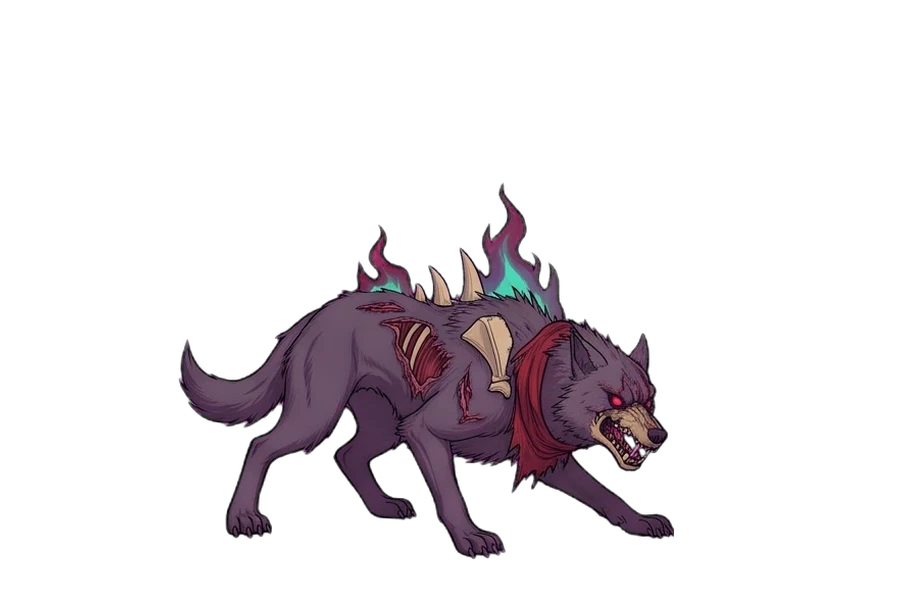
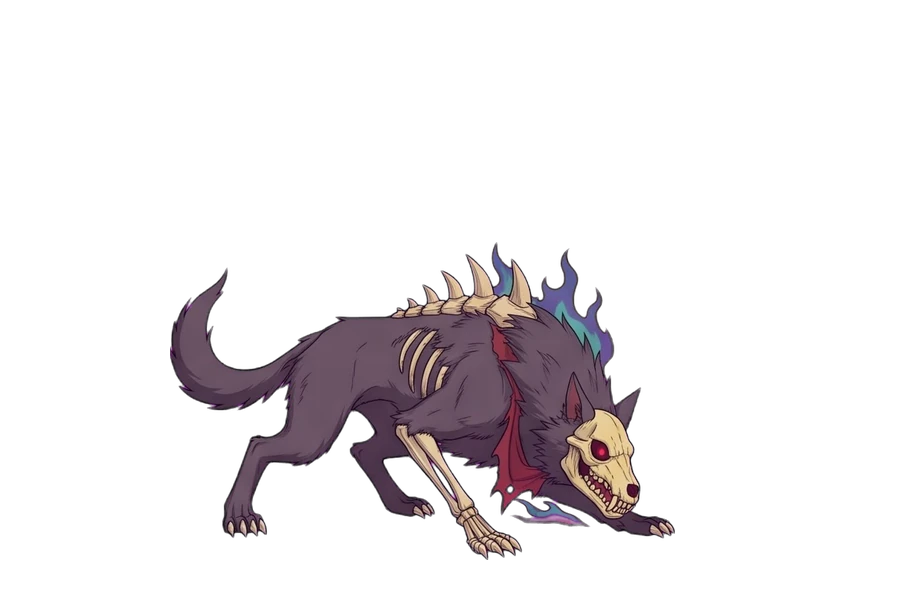
v0.8.25: 大狼攻擊姿勢換成誇張版，新增爪痕/獠牙/音波/魔焰特效與資料驅動招式特效
Claude-Session: https://claude.ai/code/session_019t36GnxcDJSNUGVk3mR62J

Changed region(s): [[0.1867, 0.33, 0.7467, 0.93], [0.5289, 0.3, 0.56, 0.33]]

diff --git a/index.html b/index.html
@@ -2073,7 +2073,7 @@
       "use strict";
 
       /* v0.7.8 圖片快取：assets/ 圖片網址一律加 ?v=版本，更新美術後不會讀到手機瀏覽器的舊快取（每次改圖就遞增 ASSET_VER） */
-      const ASSET_VER = "0.8.24";
+      const ASSET_VER = "0.8.25";
       (function () {
         const d = Object.getOwnPropertyDescriptor(HTMLImageElement.prototype, "src");
         if (!d || !d.set) return;
@@ -2827,8 +2827,8 @@
         /* --- 小狼（快、低、打了就跑） --- */
         M.s_bite = { name: "幽影撕咬", frames: FR("07_windup", "09_slash", "10_slash_rec"), windup: 0.26, active: 0.12, recover: 0.22, range: 150, lunge: 520, damage: 120, parryPostureDmg: 16 };
         M.s_bite2 = { name: "連環撕咬", isCombo: true, comboTotalHits: 2, comboInterval: 0.16, comboDamagePerHit: 85, frames: FR("07_windup", "09_slash", "10_slash_rec"), windup: 0.30, active: 0.45, recover: 0.30, range: 155, lunge: 420, damage: 100, parryPostureDmg: 14 };
-        M.s_claw3 = { name: "血爪三連", isCombo: true, comboTotalHits: 3, comboInterval: 0.18, comboDamagePerHit: 80, frames: FR("07_windup", "09_slash", "10_slash_rec"), windup: 0.38, active: 0.62, recover: 0.34, range: 160, lunge: 420, damage: 110, parryPostureDmg: 14 };
-        M.s_pounce = { name: "疾撲 (閃開，或起跳踩頭)", isLeap: true, leapH: 130, leapMax: 460, frames: { windup: "08_windup_thrust", recover: "12_thrust_rec" }, windup: 0.42, active: 0.36, recover: 0.42, range: 150, lunge: 0, damage: 150, parryPostureDmg: 16 };
+        M.s_claw3 = { fxHit: { sheet: "wolf", row: 0, ox: 110, oy: -90, w: 300, dur: 0.25 }, name: "血爪三連", isCombo: true, comboTotalHits: 3, comboInterval: 0.18, comboDamagePerHit: 80, frames: FR("07_windup", "09_slash", "10_slash_rec"), windup: 0.38, active: 0.62, recover: 0.34, range: 160, lunge: 420, damage: 110, parryPostureDmg: 14 };
+        M.s_pounce = { name: "疾撲 (閃開，或起跳踩頭)", isLeap: true, leapH: 130, leapMax: 460, frames: { windup: "08_windup_thrust", active: "11_thrust", recover: "12_thrust_rec" }, windup: 0.42, active: 0.36, recover: 0.42, range: 150, lunge: 0, damage: 150, parryPostureDmg: 16 };
         M.s_rush = { name: "【危】狂暴衝撲 (前閃看破)", isPerilous: true, perilType: "thrust", frames: { windup: "08_windup_thrust", active: "11_thrust", recover: "12_thrust_rec" }, windup: 0.50, active: 0.20, recover: 0.55, range: 300, lunge: 980, damage: 300 };
         M.s_tail = { name: "【危】甩尾旋斬 (起跳踩頭)", isPerilous: true, perilType: "sweep", frames: { windup: "07_windup", active: "13_sweep", recover: "10_slash_rec" }, windup: 0.52, active: 0.22, recover: 0.50, range: 230, lunge: 240, damage: 260 };
         M.s_shadow = { name: "幽影閃 (繞背)", isTeleport: true, teleportBehind: true, teleportDelay: 0.30, teleportText: "【幽影閃】", teleportColor: "#c084fc", frames: FR("07_windup", "09_slash", "10_slash_rec"), windup: 0.50, active: 0.12, recover: 0.34, range: 150, lunge: 300, damage: 130, parryPostureDmg: 14 };
@@ -2838,24 +2838,24 @@
         /* --- 蛻變（不是攻擊：長嘯 1.4 秒脹大，active 起點換成大狼，震退） --- */
         M.transform = { name: "九幽狼王・覺醒", isSwitch: true, isTransform: true, armor: true, switchText: { B: "〔九幽狼王・覺醒〕" }, frames: FR("14_cast", "14_cast", "14_cast"), windup: 1.4, active: 0.4, recover: 0.7, range: 0, lunge: 0, damage: 0 };
         /* --- 大狼（慢、重、大範圍；range 含半個身長） --- */
-        M.b_swipe = { name: "巨爪橫掃", frames: FR("07_windup", "09_slash", "10_slash_rec"), windup: 0.62, active: 0.18, recover: 0.55, range: 330, lunge: 220, damage: 210, parryPostureDmg: 28 };
-        M.b_stomp = { name: "地面連錘", isCombo: true, comboTotalHits: 3, comboInterval: 0.30, comboDamagePerHit: 110, frames: FR("07_windup", "09_slash", "10_slash_rec"), windup: 0.60, active: 1.0, recover: 0.55, range: 320, lunge: 300, damage: 160, parryPostureDmg: 20 };
-        M.b_leap = { name: "【危】巨狼躍壓 (閃開，或起跳踩頭)", isLeap: true, isPerilous: true, perilType: "leap", leapH: 230, leapMax: 640, frames: { windup: "08_windup_thrust", recover: "12_thrust_rec" }, windup: 0.75, active: 0.60, recover: 0.80, range: 300, lunge: 0, damage: 300, parryPostureDmg: 22 };
-        M.b_howl = { name: "咆哮震波 (霸體・震退)", armor: true, pushback: 900, frames: FR("14_cast", "14_cast", "14_cast"), windup: 0.65, active: 0.15, recover: 0.50, range: 420, lunge: 0, damage: 90, parryPostureDmg: 20 };
+        M.b_swipe = { fxAct: { sheet: "wolf", row: 0, ox: 200, oy: -210, w: 640, dur: 0.34 }, name: "巨爪橫掃", frames: FR("07_windup", "09_slash", "10_slash_rec"), windup: 0.62, active: 0.18, recover: 0.55, range: 330, lunge: 220, damage: 210, parryPostureDmg: 28 };
+        M.b_stomp = { name: "地面連錘", isCombo: true, comboTotalHits: 3, comboInterval: 0.30, comboDamagePerHit: 110, fxHit: { sheet: "land", row: 0, ox: 260, oy: 22, w: 560, dur: 0.5, anchor: "b", alpha: 0.85 }, frames: FR("07_windup", "20_slam", "10_slash_rec"), windup: 0.60, active: 1.0, recover: 0.55, range: 320, lunge: 300, damage: 160, parryPostureDmg: 20 };
+        M.b_leap = { name: "【危】巨狼躍壓 (閃開，或起跳踩頭)", isLeap: true, fxLand: true, isPerilous: true, perilType: "leap", leapH: 230, leapMax: 640, frames: { windup: "08_windup_thrust", active: "11_thrust", recover: "12_thrust_rec" }, windup: 0.75, active: 0.60, recover: 0.80, range: 300, lunge: 0, damage: 300, parryPostureDmg: 22 };
+        M.b_howl = { fxAct: { sheet: "wolf", row: 3, ox: 260, oy: -250, w: 900, dur: 0.7 }, name: "咆哮震波 (霸體・震退)", armor: true, pushback: 900, frames: FR("14_cast", "14_cast", "14_cast"), windup: 0.65, active: 0.15, recover: 0.50, range: 420, lunge: 0, damage: 90, parryPostureDmg: 20 };
         M.b_bone = { name: "白骨刺陣", isZone: true, zoneType: "bone", zoneWidth: 320, zoneDuration: 2.4, zoneDamagePerSec: 150, zoneTargetPlayer: true, frames: FR("14_cast", "14_cast", "14_cast"), windup: 0.55, active: 0.20, recover: 0.50, range: 300, lunge: 0, damage: 120 };
-        M.b_bite = { name: "【危】噬魂吞咬 (極限側閃)", isPerilous: true, perilType: "grab", frames: { windup: "08_windup_thrust", active: "11_thrust", recover: "12_thrust_rec" }, windup: 0.70, active: 0.16, recover: 0.75, range: 260, lunge: 0, damage: 350 };
-        M.b_tail = { name: "【危】魔尾裂風掃 (起跳踩頭)", isPerilous: true, perilType: "sweep", frames: { windup: "07_windup", active: "13_sweep", recover: "10_slash_rec" }, windup: 0.60, active: 0.24, recover: 0.62, range: 360, lunge: 260, damage: 300 };
+        M.b_bite = { name: "【危】噬魂吞咬 (極限側閃)", isPerilous: true, perilType: "grab", fxAct: { sheet: "wolf", row: 1, ox: 300, oy: -190, w: 560, dur: 0.36 }, frames: { windup: "08_windup_thrust", active: "21_bite", recover: "12_thrust_rec" }, windup: 0.70, active: 0.16, recover: 0.75, range: 260, lunge: 0, damage: 350 };
+        M.b_tail = { fxAct: { sheet: "land", row: 2, ox: 0, oy: -60, w: 1100, dur: 0.5, alpha: 0.7 }, name: "【危】魔尾裂風掃 (起跳踩頭)", isPerilous: true, perilType: "sweep", frames: { windup: "07_windup", active: "13_sweep", recover: "10_slash_rec" }, windup: 0.60, active: 0.24, recover: 0.62, range: 360, lunge: 260, damage: 300 };
         M.b_rush = { name: "巨狼衝撞 (跳躍越過)", isCharge: true, armor: true, chargeSpeed: 720, frames: { windup: "08_windup_thrust", active: "11_thrust", recover: "12_thrust_rec" }, windup: 0.70, active: 0.70, recover: 0.90, range: 260, lunge: 720, damage: 260, parryPostureDmg: 24 };
-        M.b_rage = { name: "血海狼嚎・亂爪 (霸體)", isRage: true, armor: true, isCombo: true, comboTotalHits: 3, comboInterval: 0.26, comboDamagePerHit: 130, frames: FR("14_cast", "09_slash", "10_slash_rec"), windup: 0.70, active: 0.95, recover: 0.70, range: 340, lunge: 320, damage: 220, parryPostureDmg: 26 };
+        M.b_rage = { fxHit: { sheet: "wolf", row: 0, ox: 220, oy: -200, w: 700, dur: 0.3 }, name: "血海狼嚎・亂爪 (霸體)", isRage: true, armor: true, isCombo: true, comboTotalHits: 3, comboInterval: 0.26, comboDamagePerHit: 130, frames: FR("14_cast", "09_slash", "10_slash_rec"), windup: 0.70, active: 0.95, recover: 0.70, range: 340, lunge: 320, damage: 220, parryPostureDmg: 26 };
         Object.values(M).forEach(m => { if (m.range) m.range = Math.round(m.range * CHAR_K); });
         S5.moves = M;
-        S5.stanceByPhase = { 1: "A", 2: "B" }; S5.transformMove = "transform"; S5.transformGrow = 3.0; /* 蛻變時小狼脹大的倍數（接近大狼／小狼體型比） */
+        S5.fxSheets = ["wolf", "land"]; S5.stanceByPhase = { 1: "A", 2: "B" }; S5.transformMove = "transform"; S5.transformGrow = 3.0; /* 蛻變時小狼脹大的倍數（接近大狼／小狼體型比） */
         S5.stances = {
           A: { sprite: "boss5", stride: 170, speed: 430, walkSeq: ["03_walk1", "04_walk2", "05_walk3", "06_walk4"], spriteScale: 0.64, hurtHalf: 40, bodyW: 150, bodyH: 70, rageMove: "s_rage",
             pool: [["s_bite", 14], ["s_bite2", 12], ["s_claw3", 11], ["s_bite+backstep", 10, "mobility"], ["s_pounce+backstep", 9, "mobility"], ["dash_in+s_bite", 10, "chase"], ["s_rush", 8], ["s_tail", 8], ["s_shadow+s_bite", 8, "chase"]],
             far: ["dash_in+s_bite", "s_pounce"], farP2: [] },
           B: { sprite: "boss5b", stride: 330, speed: 250, /* 大狼：站立與走路只用外觀一致（無骨腿）的格子，避免 AI 生圖各格骨腿有無不同而閃爍 */
-            remap: { "01_idle1": "02_idle2" }, walkSeq: ["03_walk1", "04_walk2", "06_walk4", "04_walk2"], spriteScale: 1.05, hurtHalf: 230, bodyW: 520, bodyH: 300, rageMove: "b_rage",
+            extras: ["20_slam", "21_bite"], remap: { "01_idle1": "02_idle2" }, walkSeq: ["03_walk1", "04_walk2", "06_walk4", "04_walk2"], spriteScale: 1.05, hurtHalf: 230, bodyW: 520, bodyH: 300, rageMove: "b_rage",
             pool: [["b_swipe", 16], ["b_stomp", 12], ["b_howl", 9, "push"], ["b_bone", 10], ["b_bite", 9], ["b_tail", 9], ["b_leap", 12, "mobility"], ["b_rush", 8, "chase"]],
             far: ["b_rush", "b_leap"], farP2: [] }
         };
@@ -4454,6 +4454,12 @@
         Boss._leapPity = pk.indexOf("leap_slam") >= 0 ? 0 : (Boss._leapPity || 0) + 1;
         return pk;
       }
+      /* v0.8.25 招式特效（資料驅動）：move.fxAct＝出招起點、move.fxHit＝連擊每一下、move.fxLand＝躍擊落地；
+         欄位 {sheet,row,ox(沿面向偏移),oy,w,h,dur,anchor,alpha} */
+      function spawnMoveFx(f) {
+        if (!f || !fxReady(f.sheet)) return;
+        spawnFx(f.sheet, f.row, Boss.x + Boss.facing * (f.ox || 0), Boss.y + (f.oy || 0), { w: f.w, h: f.h || f.w, dur: f.dur || 0.35, facing: Boss.facing, anchor: f.anchor || "c", alpha: f.alpha == null ? 1 : f.alpha });
+      }
       function triggerMacro(k) { const parts = k.split("+"); triggerBossMove(parts[0], parts.slice(1)); }
       function triggerBossMove(moveKey, queue = []) {
         if (Boss.state === "staggered" || Boss.state === "frozen") return;
@@ -4714,6 +4720,7 @@
             Boss.stateTimer = move.active * phaseMod * volSpeedMod;
             Boss.stateDur = move.active * phaseMod * volSpeedMod;
             Boss.vx = Boss.facing * move.lunge * (Config.bossPhase === 2 ? 1.2 : 1.0);
+            spawnMoveFx(move.fxAct);
             if (move.isCharge && Boss.stageId === 1 && fxReady("boss2")) spawnFx("boss2", 2, Boss.x, Boss.y - 120, { w: 440, dur: Math.max(0.4, move.active), loop: true, fps: 11, facing: Boss.facing, follow: () => ({ x: Boss.x - Boss.facing * 90, y: Boss.y - 120 }) });
             if (move.swordRain) {
               for (let k = -2; k <= 2; k++) emitDust(Boss.grabZoneX + k * move.range * 0.3, Config.groundY, k < 0 ? -1 : 1, 2, 0.8);
@@ -4738,6 +4745,9 @@
                 if (fxReady("land")) spawnFx("land", 0, Boss.x, Config.groundY + 22, { w: 900, h: 900, dur: 0.7, anchor: "b", alpha: 0.9 });
                 Sound.play("execution", 0.7, 0.55);
                 Player.vx = (Player.x >= Boss.x ? 1 : -1) * 700;
+                if (Boss.stageId === 5 && fxReady("wolf")) { /* 大狼背上的魔焰：疊加發光、循環搖擺，跟著 Boss */
+                  [[-130, 6.5], [0, 8], [120, 7]].forEach(([o, fps]) => spawnFx("wolf", 2, Boss.x, Boss.y - 235, { anchor: "b", w: 220, h: 220, alpha: 0.55, dur: 9999, loop: true, fps, follow: () => (Boss.hp > 0 ? { x: Boss.x + Boss.facing * o, y: Boss.y - 235 } : { x: -9999, y: -9999 }) }));
+                }
               }
             }
 
@@ -4871,6 +4881,7 @@
               Boss.hitRegistered = false;
 
               Sound.play("slash", 0.85, 0.9 + (move.comboTotalHits - Boss.comboHitsLeft) * 0.08);
+              spawnMoveFx(move.fxHit);
               const bType = Stages[Boss.stageId].bodyType || "human";
               const anim = move.anim || "slash";
               const aType = bType === "beast" ? "claw" : bType === "eye" ? "beam" : anim;
@@ -4942,6 +4953,11 @@
               Boss.x = Boss.leapLandX; Boss.y = Config.groundY;
               for (let k = -1; k <= 1; k++) emitDust(Boss.x + k * 70, Config.groundY, k || 1, 3, 1.0);
               if (Boss.stageId === 1 && fxReady("boss1")) { const lw = move.range * 2.8; spawnFx("boss1", 3, Boss.x, Config.groundY - lw * 0.26, { w: lw, dur: 0.5 }); landingFx(Boss.x, 1.7, 5); }
+              if (move.fxLand && fxReady("land")) {
+                spawnFx("land", 0, Boss.x, Config.groundY + 22, { w: 760, h: 760, dur: 0.6, anchor: "b", alpha: 0.85 });
+                spawnFx("land", 1, Boss.x, Config.groundY + 6, { w: 480, h: 480, dur: 1.0, anchor: "b", alpha: 0.7 });
+                addTrauma(0.6);
+              }
               triggerShake(Boss.facing, 0, 20, 0.25); Sound.play("peril", 0.6, 1.3);
               if (!Boss.hitRegistered && Player.state !== "execution" && Math.abs(Player.x - Boss.x) <= move.range && Player.y >= Config.groundY - 70) {
                 Boss.hitRegistered = true;
@@ -7985,7 +8001,8 @@
         if (stage.introName) getCineImg("name", stage.introName);
         if (stage.introCine) fxSheet("land");
         if (stage.introVideo) getCineVideo(stage.introVideo);
-        if (stage.stances) Object.values(stage.stances).forEach(st => getBossSprite(st.sprite));
+        if (stage.stances) Object.values(stage.stances).forEach(st => getBossSprite(st.sprite, st.extras));
+        (stage.fxSheets || []).forEach(k => fxSheet(k));
         getPortrait("boss" + stageId); getPortrait("boss" + stageId + "_alt");
         if (stage.bg) getBgArt(stage.bg);
         Boss.maxHp = stage.maxHp;

diff --git a/tools/poses.py b/tools/poses.py
@@ -1,4 +1,4 @@
-"""登場／特殊姿勢切圖：python3 poses.py 姿勢表.jpg 輸出資料夾 縮放比 [名稱,...]
+"""登場／特殊姿勢切圖：python3 poses.py 姿勢表.jpg 輸出資料夾 縮放比 [名稱,...] [欄數=2] [列數=2]
 洋紅底 2x2（共 4 格）→ 去背（含去掉殘留的黑色格線）、統一縮放（用同一個縮放比，保持各格人物大小一致），
 腳底（bbox 底）落在 y=560、最低 8% 範圍的水平中心對齊 x=450，輸出 900x600 webp。
 縮放比的找法：用站姿單格量「頭盔羽飾頂到靴底」的高度，除以姿勢表裡接近站姿的那格同樣的高度。
@@ -26,9 +26,11 @@ def cell(img, c, cols=2, rows=2, pad=10):
 if __name__ == '__main__':
     src, outdir, S = sys.argv[1], sys.argv[2], float(sys.argv[3])
     names = sys.argv[4].split(',') if len(sys.argv) > 4 else ['20_jump', '21_fall', '22_land', '23_rise']
+    cols = int(sys.argv[5]) if len(sys.argv) > 5 else 2
+    rows = int(sys.argv[6]) if len(sys.argv) > 6 else 2
     img = Image.open(src); os.makedirs(outdir, exist_ok=True)
     for k, nm in enumerate(names):
-        rgba = cell(img, k); x0, y0, x1, y1 = bbox(rgba); rgba = rgba[y0:y1, x0:x1]
+        rgba = cell(img, k, cols, rows); x0, y0, x1, y1 = bbox(rgba); rgba = rgba[y0:y1, x0:x1]
         h = rgba.shape[0]; lo = rgba[int(h - max(8, h * 0.08)):, :, 3] > 40
         _, fx = np.where(lo); feet_c = (fx.min() + fx.max()) / 2
         im = Image.fromarray(rgba).resize((max(1, int(rgba.shape[1] * S)), max(1, int(h * S))), Image.LANCZOS)

diff --git a/HANDOFF.md b/HANDOFF.md
@@ -1,4 +1,4 @@
-# 《一念飛仙外傳-墨塵傳》交接文件（對應版本 v0.8.24）
+# 《一念飛仙外傳-墨塵傳》交接文件（對應版本 v0.8.25）
 
 > 新對話開始時：上傳這份文件，第一句話寫「請先讀交接文件，照文件的流程繼續」。
 > Claude 要先把倉庫掛進工作階段（add_repo：mashin-84/mochen，push 權限）、clone，再讀 `index.html` 的關鍵段落。
@@ -310,3 +310,10 @@
 - `assets/boss5b/`（大狼 16 格；原表有黑色格線邊框 → 新工具 `tools/sheetpad.py 動作表.jpg 輸出資料夾 目標高度 [內縮]`，每格內縮 12px 去格線再走 sheet.py 的流程；目標高度 420，`spriteScale 1.05`、`hurtHalf 230`、`bodyW 520`、`bodyH 300`、`transformGrow 3.0`）。
 - AI 生圖各格的骨腿／骨尾有無不一致（01、05、09、13、14、15 有骨腿，其餘是毛腿）→ 站立與走路會閃爍，所以大狼姿態設 `remap {"01_idle1":"02_idle2"}`、`walkSeq ["03_walk1","04_walk2","06_walk4","04_walk2"]`（只用毛腿格）；攻擊格不受影響。
 - 待補：大狼倒地 3 格（17_kneel／18_fall／19_lie，用 `fall3.py`）、小狼被打到二階段不需倒地；魔焰特效圖（疊加發光的動態火焰，讓背上火焰真的搖擺）；第 5 關登場動畫（背景＋影片）、書法名字卡「九幽魔狼」。
+
+**v0.8.25 大狼攻擊誇張化（使用者要求「動作更浮誇、有力量感」，走生圖路線）**
+- 新圖：`assets/boss5b/` 的 07／08／09／10／11／12／13 換成極端誇張的攻擊姿勢（`tools/poses.py 姿勢表 輸出資料夾 0.77 名稱列表 3 3` 切 3×3，已新增欄數／列數參數），另新增 `20_slam`（雙爪砸地）、`21_bite`（吞咬前撲）兩格（姿態 B 的 `extras` 載入）。新攻擊格是「全頭骨臉」，舊的站立／走路／hurt／stagger／howl 格是「半臉骨」，兩者長相有落差；若使用者在意，再用新攻擊格當參考重生其餘 7 格。
+- 特效：`assets/fx/wolf.webp`（4×4：0 三道爪痕、1 魂火獠牙咬合、2 魔焰搖擺循環、3 咆哮音波）。引擎新增資料驅動招式特效：`move.fxAct`（出招起點）、`move.fxHit`（連擊每一下）、`move.fxLand`（躍擊落地的衝擊環與塵雲），欄位 `{sheet,row,ox,oy,w,h,dur,anchor,alpha}`（`spawnMoveFx`）；`stage.fxSheets` 預載。已掛：巨爪橫掃（爪痕）、噬魂吞咬（獠牙）、咆哮震波（音波）、魔尾裂風掃（風壓環）、地面連錘（每下衝擊環）、巨狼躍壓（落地衝擊）、血海狼嚎（連擊爪痕）、小狼血爪三連。
+- 魔焰：大狼蛻變完成時在背上生成 3 團循環火焰（疊加、alpha 0.55，跟著 Boss，Boss 死亡後移出畫面），在亮底上用 0.55 避免洗白。
+- 狼的 `isLeap` 招式新增 `frames.active = "11_thrust"`（空中撲咬姿勢）。
+- 待做：倒地 3 格、引擎端誇張化（蓄力下壓壓扁、出招拉伸殘影、命中震屏頂幀）等實測後再決定要不要加、登場動畫與名字卡。
